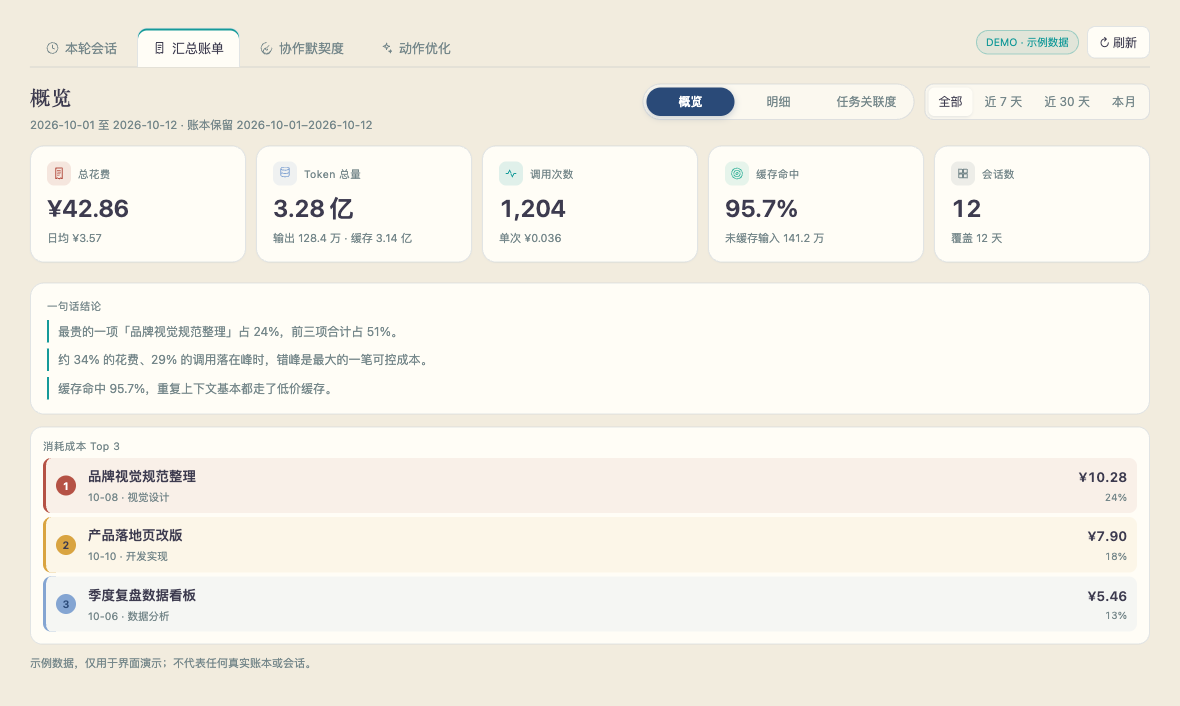
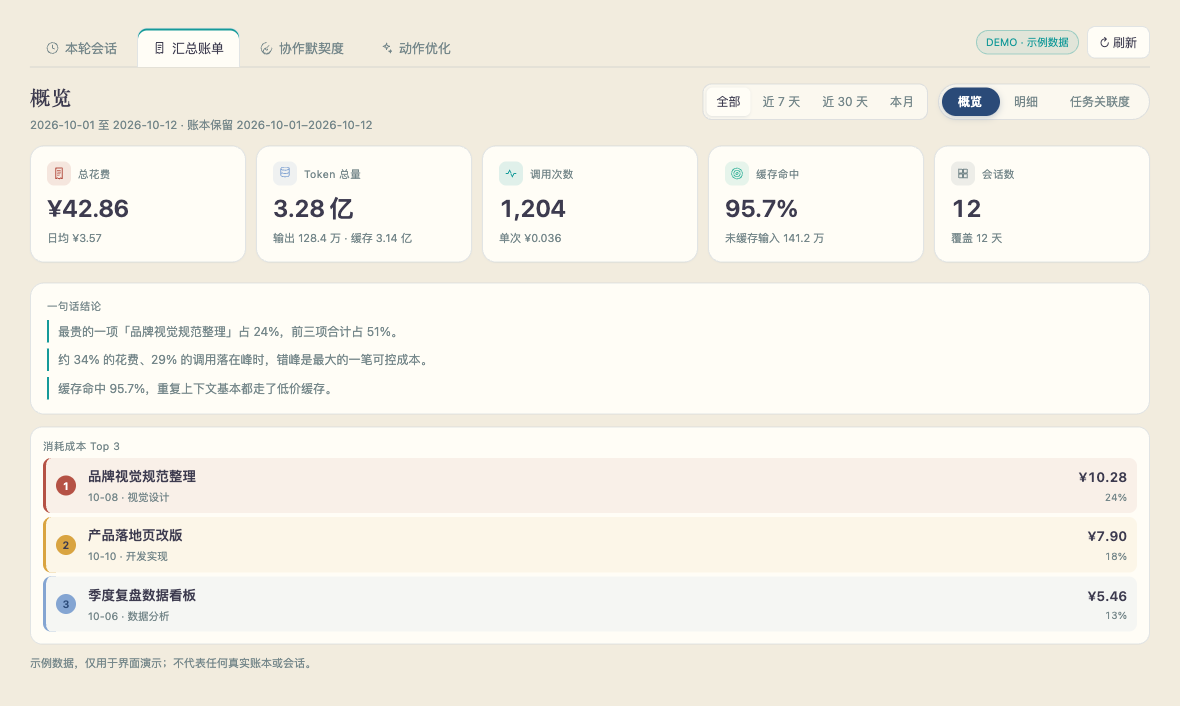
feat: auto-width switches and filter chips (0.1.8)

Changed region(s): [[0.5492, 0.1246, 0.9763, 0.187]]

diff --git a/client.js b/client.js
@@ -227,9 +227,13 @@ window.__ModuleLoader__.load({
       .tb-costtype-meta { margin-top: 10px; padding-top: 10px; border-top: 1px solid var(--tb-line); color: ${C.secondary}; font-size: 11px; }
       @media (max-width: 640px) { .tb-costtypes { flex-direction: column; align-items: flex-start; } .tb-costtype-list { width: 100%; } }
       .tb-session-head { display: flex; align-items: flex-start; justify-content: space-between; gap: 12px; flex-wrap: wrap; margin-bottom: 12px; }
-      .tb-switch { display: inline-grid; grid-template-columns: repeat(var(--tb-switch-count), 1fr); position: relative; isolation: isolate; padding: 3px; border: 1px solid var(--tb-line); border-radius: 99px; background: color-mix(in srgb, var(--tb-card) 70%, ${VI.ivory}); }
-      .tb-switch-thumb { position: absolute; top: 3px; bottom: 3px; left: 3px; width: calc((100% - 6px) / var(--tb-switch-count)); border-radius: 99px; background: var(--tb-switch-accent); box-shadow: 0 2px 7px color-mix(in srgb, var(--tb-switch-accent) 35%, transparent); transform: translateX(calc(var(--tb-switch-index) * 100%)); transition: transform .26s cubic-bezier(.22,1,.36,1), background .2s ease; z-index: 0; }
-      .tb-switch button { position: relative; z-index: 1; border: 0; border-radius: 99px; background: transparent; color: ${C.secondary}; padding: 5px 14px; font: inherit; font-size: 12px; white-space: nowrap; cursor: pointer; transition: color .18s ease; }
+      .tb-switch { display: inline-flex; align-items: center; position: relative; isolation: isolate; padding: 3px; border: 1px solid var(--tb-line); border-radius: 99px; background: color-mix(in srgb, var(--tb-card) 70%, ${VI.ivory}); }
+      .tb-switch-thumb { position: absolute; top: 3px; bottom: 3px; left: 3px; width: 0; border-radius: 99px; background: var(--tb-switch-accent); box-shadow: 0 2px 7px color-mix(in srgb, var(--tb-switch-accent) 35%, transparent); transition: transform .26s cubic-bezier(.22,1,.36,1), width .26s cubic-bezier(.22,1,.36,1), background .2s ease; z-index: 0; }
+      .tb-switch button { position: relative; z-index: 1; flex: 0 0 auto; border: 0; border-radius: 99px; background: transparent; color: ${C.secondary}; padding: 5px 14px; font: inherit; font-size: 12px; white-space: nowrap; cursor: pointer; transition: color .18s ease; }
+      .tb-filter-chips { display: flex; align-items: center; gap: 5px; flex-wrap: wrap; }
+      .tb-filter-chip { display: inline-flex; align-items: center; gap: 5px; border: 1px solid var(--tb-line); border-radius: 99px; background: color-mix(in srgb, ${VI.moon} 10%, var(--tb-card)); color: ${C.secondary}; padding: 4px 9px; font: inherit; font-size: 10.5px; cursor: pointer; }
+      .tb-filter-chip:hover { color: ${C.primary}; border-color: color-mix(in srgb, ${VI.navy} 30%, var(--tb-line)); }
+      .tb-filter-x { font-size: 12px; line-height: 1; opacity: .7; }
       .tb-switch button[aria-selected="true"] { color: #fff; font-weight: 600; }
       .tb-module-switch { margin: 2px 0; }
       .tb-detail-line { display: flex; justify-content: space-between; gap: 10px; padding: 5px 0; border-bottom: 1px solid rgba(42,74,120,.08); font-size: 11.5px; }
@@ -1438,23 +1442,49 @@ window.__ModuleLoader__.load({
           h('button', { key, type: 'button', 'aria-pressed': period === key, onClick: () => onChange(key) }, label)))
     }
 
-    function ModuleBar({ title, meta, period, onChange, children }) {
+    function ModuleBar({ title, meta, period, onChange, filters, children }) {
       return h('div', { className: 'tb-module-head' },
         h('div', { className: 'tb-module-heading' },
           title ? h('div', { className: 'tb-module-title' }, title) : null,
           meta ? h('div', { className: 'tb-module-meta' }, meta) : null),
         h('div', { className: 'tb-module-controls' },
-          children,
-          period ? h(PeriodBar, { period, onChange }) : null))
+          period ? h(PeriodBar, { period, onChange }) : null,
+          filters?.length ? h('div', { className: 'tb-filter-chips' }, filters.map(filter =>
+            h('button', { key: filter.key, type: 'button', className: 'tb-filter-chip', onClick: filter.clear, title: '清除此过滤条件' },
+              filter.label, h('span', { className: 'tb-filter-x', 'aria-hidden': true }, '×')))) : null,
+          children))
     }
 
     function Switch({ items, value, onChange, accent = VI.teal }) {
-      const index = Math.max(0, items.findIndex(([key]) => key === value))
+      const ref = useRef(null)
+      const [thumb, setThumb] = useState({ left: 0, width: 0 })
+      useEffect(() => {
+        const node = ref.current
+        if (!node) return undefined
+        const update = () => {
+          const active = node.querySelector('[aria-selected="true"]')
+          if (!active) return
+          setThumb({ left: Math.max(0, active.offsetLeft - 3), width: active.offsetWidth })
+        }
+        update()
+        const timer = setTimeout(update, 0)
+        window.addEventListener('resize', update)
+        let observer = null
+        if (typeof ResizeObserver !== 'undefined') {
+          observer = new ResizeObserver(update)
+          observer.observe(node)
+        }
+        return () => {
+          clearTimeout(timer)
+          window.removeEventListener('resize', update)
+          observer?.disconnect()
+        }
+      }, [value, items.length])
       return h('div', {
         className: 'tb-switch', role: 'tablist',
-        style: { '--tb-switch-count': items.length, '--tb-switch-index': index, '--tb-switch-accent': accent },
+        ref, style: { '--tb-switch-accent': accent },
       },
-        h('span', { className: 'tb-switch-thumb', 'aria-hidden': true }),
+        h('span', { className: 'tb-switch-thumb', 'aria-hidden': true, style: { width: thumb.width, transform: `translateX(${thumb.left}px)` } }),
         items.map(([key, label]) => h('button', {
           key, type: 'button', role: 'tab', 'aria-selected': value === key,
           onClick: () => onChange(key),
@@ -1728,12 +1758,19 @@ window.__ModuleLoader__.load({
     function TotalModule({ data, period, onPeriod, domain, onDomain, tool, onTool }) {
       const [view, setView] = useState('overview')
       const title = view === 'overview' ? '概览' : view === 'detail' ? '明细' : '任务关联度'
+      const filters = []
+      if (domain) {
+        const item = (data.domains || []).find(domainItem => domainItem.key === domain)
+        filters.push({ key: 'domain', label: `类型 · ${item?.label || domain}`, clear: () => onDomain('') })
+      }
+      if (tool) filters.push({ key: 'tool', label: `工具 · ${shortTool(tool)}`, clear: () => onTool('') })
       return h('div', { className: 'tb-module' },
         h(ModuleBar, {
           title,
           meta: `${data.range.from} 至 ${data.range.to} · 账本保留 ${data.retained.from}–${data.retained.to}`,
           period,
           onChange: onPeriod,
+          filters,
         }, h(Switch, { items: [['overview', '概览'], ['detail', '明细'], ['relations', '任务关联度']], value: view, onChange: setView, accent: VI.navy })),
         view === 'overview'
           ? h(Summary, { data })

diff --git a/docs/demo.html b/docs/demo.html
@@ -16,9 +16,9 @@
   .module-title { font-family:"Songti SC","STSong","Noto Serif SC",serif; font-size:20px; font-weight:600; letter-spacing:.06em; color:var(--ink); }
   .module-meta { font-size:11.5px; color:var(--muted); }
   .module-controls { display:flex; align-items:center; gap:10px; flex-wrap:wrap; margin-left:auto; padding-top:2px; }
-  .subswitch { display:inline-grid; grid-template-columns:repeat(3,1fr); position:relative; padding:3px; margin:0; border:1px solid var(--line); border-radius:99px; background:rgba(255,253,246,.7); }
-  .subswitch .thumb { position:absolute; top:3px; bottom:3px; left:3px; width:calc((100% - 6px)/3); border-radius:99px; background:var(--navy); box-shadow:0 2px 7px rgba(42,74,120,.25); }
-  .subswitch button { position:relative; z-index:1; border:0; background:transparent; color:var(--muted); padding:5px 14px; border-radius:99px; font:inherit; font-size:12px; }
+  .subswitch { display:inline-flex; align-items:center; position:relative; padding:3px; margin:0; border:1px solid var(--line); border-radius:99px; background:rgba(255,253,246,.7); }
+  .subswitch .thumb { position:absolute; top:3px; bottom:3px; left:3px; width:58px; border-radius:99px; background:var(--navy); box-shadow:0 2px 7px rgba(42,74,120,.25); }
+  .subswitch button { position:relative; z-index:1; flex:0 0 auto; border:0; background:transparent; color:var(--muted); padding:5px 16px; border-radius:99px; font:inherit; font-size:12px; }
   .subswitch button.on { color:#fff; font-weight:600; }
   .head { display:flex; align-items:flex-end; justify-content:space-between; gap:16px; margin-bottom:18px; }
   .title { font-family:"Songti SC","STSong","Noto Serif SC",serif; font-size:26px; font-weight:600; letter-spacing:.08em; display:inline-block; padding-bottom:2px; border-bottom:2px solid rgba(21,154,153,.32); }
@@ -173,7 +173,7 @@ const actions = [
 const actionsHTML = `<div class="suggestions">${actions.map(([p,t,w,a,s,b])=>`<div class="sug"><div class="sug-head"><span class="dot" style="background:${p==='high'?'#B55245':'#D9A441'}"></span><span class="sug-title">${t}</span><span class="sug-save">${s}</span></div><div class="sug-why">${w}</div><div class="sug-act">${a}</div><div class="sug-basis">${b}</div></div>`).join('')}</div>`;
 const title = tab==='summary' ? '概览' : tab==='rapport' ? '协作默契度' : '动作优化';
 const subSwitch = tab==='summary' ? `<div class="subswitch"><span class="thumb"></span><button class="on">概览</button><button>明细</button><button>任务关联度</button></div>` : '';
-const moduleBar = `<div class="module-head"><div class="module-heading"><div class="module-title">${title}</div><div class="module-meta">2026-10-01 至 2026-10-12 · 账本保留 2026-10-01–2026-10-12</div></div><div class="module-controls">${subSwitch}<div class="seg"><button class="on">全部</button><button>近 7 天</button><button>近 30 天</button><button>本月</button></div></div></div>`;
+const moduleBar = `<div class="module-head"><div class="module-heading"><div class="module-title">${title}</div><div class="module-meta">2026-10-01 至 2026-10-12 · 账本保留 2026-10-01–2026-10-12</div></div><div class="module-controls"><div class="seg"><button class="on">全部</button><button>近 7 天</button><button>近 30 天</button><button>本月</button></div>${subSwitch}</div></div>`;
 document.getElementById('panel').innerHTML = moduleBar + (tab==='rapport'?`<div class="card" style="padding:18px 20px">${rapport}</div>`:tab==='actions'?actionsHTML:summary);
 document.querySelectorAll('.pill').forEach(el=>el.addEventListener('click',()=>{location.search='?tab='+el.dataset.tab}));
 </script>

diff --git a/README.ja.md b/README.ja.md
@@ -2,7 +2,7 @@
 
 [English](README.md) | [简体中文](README.zh-CN.md) | **日本語** | [한국어](README.ko.md)
 
-バージョン **0.1.7**（2026-11-25）· パッケージ `@zhiyu.pub/dsh-token-bill`。
+バージョン **0.1.8**（2026-11-25）· パッケージ `@zhiyu.pub/dsh-token-bill`。
 
 ローカルのコスト台帳とセッションログを、読める「Token 明細」に変える [DeepSeek Harness](https://github.com/deepseek-ai/deepseek-harness)（DSH）バンドルです。会話ページに **明細（账单）** ビューを追加します。
 

diff --git a/README.ko.md b/README.ko.md
@@ -2,7 +2,7 @@
 
 [English](README.md) | [简体中文](README.zh-CN.md) | [日本語](README.ja.md) | **한국어**
 
-버전 **0.1.7** (2026-11-25) · 패키지 `@zhiyu.pub/dsh-token-bill`.
+버전 **0.1.8** (2026-11-25) · 패키지 `@zhiyu.pub/dsh-token-bill`.
 
 로컬 비용 원장과 세션 로그를 읽기 쉬운 **Token 명세**로 바꾸는 [DeepSeek Harness](https://github.com/deepseek-ai/deepseek-harness)(DSH) 번들입니다. 대화 페이지에 **명세(账单)** 뷰를 추가합니다.
 

diff --git a/CHANGELOG.md b/CHANGELOG.md
@@ -1,5 +1,11 @@
 # Changelog
 
+## 0.1.8 — 2026-11-25
+
+- 模块切换胶囊按文字宽度自适应，高亮滑块跟随当前按钮的位置和宽度。
+- 模块切换固定在最右侧；有过滤条件时，过滤条件排在它左边，账期再往左。
+- 明细里选中的任务类型/工具会在模块标题行显示为可清除的过滤条件。
+
 ## 0.1.7 — 2026-11-25
 
 - 模块标题显示当前子视图（概览 / 明细 / 任务关联度），切换胶囊与账期移到右侧。

diff --git a/README.md b/README.md
@@ -2,7 +2,7 @@
 
 **English** | [简体中文](README.zh-CN.md) | [日本語](README.ja.md) | [한국어](README.ko.md)
 
-Version **0.1.7** (2026-11-25) · package `@zhiyu.pub/dsh-token-bill`.
+Version **0.1.8** (2026-11-25) · package `@zhiyu.pub/dsh-token-bill`.
 
 A [DeepSeek Harness](https://github.com/deepseek-ai/deepseek-harness) (DSH) bundle that turns the local cost ledger and session logs into a readable token bill. It adds a **Bill (账单)** view to the conversation page.
 

diff --git a/README.zh-CN.md b/README.zh-CN.md
@@ -2,7 +2,7 @@
 
 [English](README.md) | **简体中文** | [日本語](README.ja.md) | [한국어](README.ko.md)
 
-版本 **0.1.7**（2026-11-25）· 包名 `@zhiyu.pub/dsh-token-bill`。
+版本 **0.1.8**（2026-11-25）· 包名 `@zhiyu.pub/dsh-token-bill`。
 
 在对话页的视图标签里新增「Token 账单」，把散落在账本与会话日志里的用量整理成一张能读懂的账单。
 
